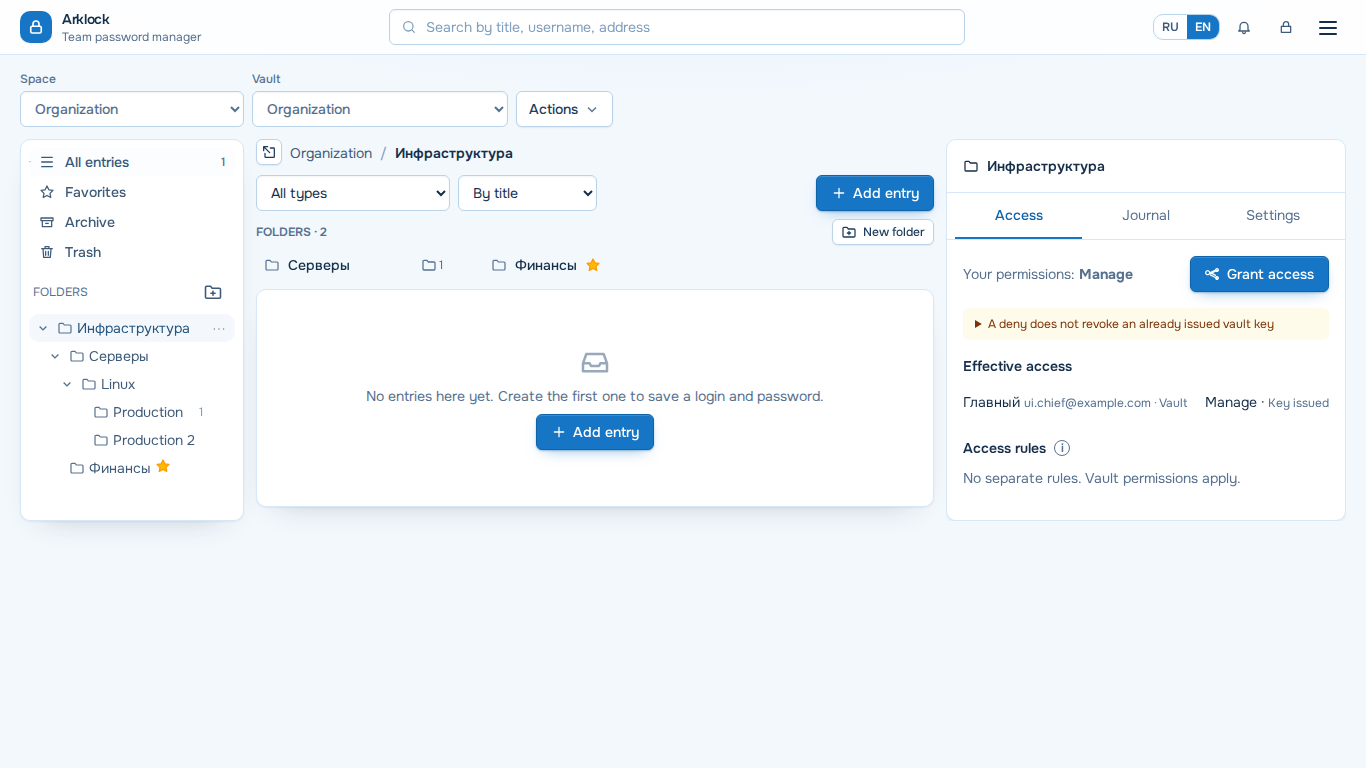
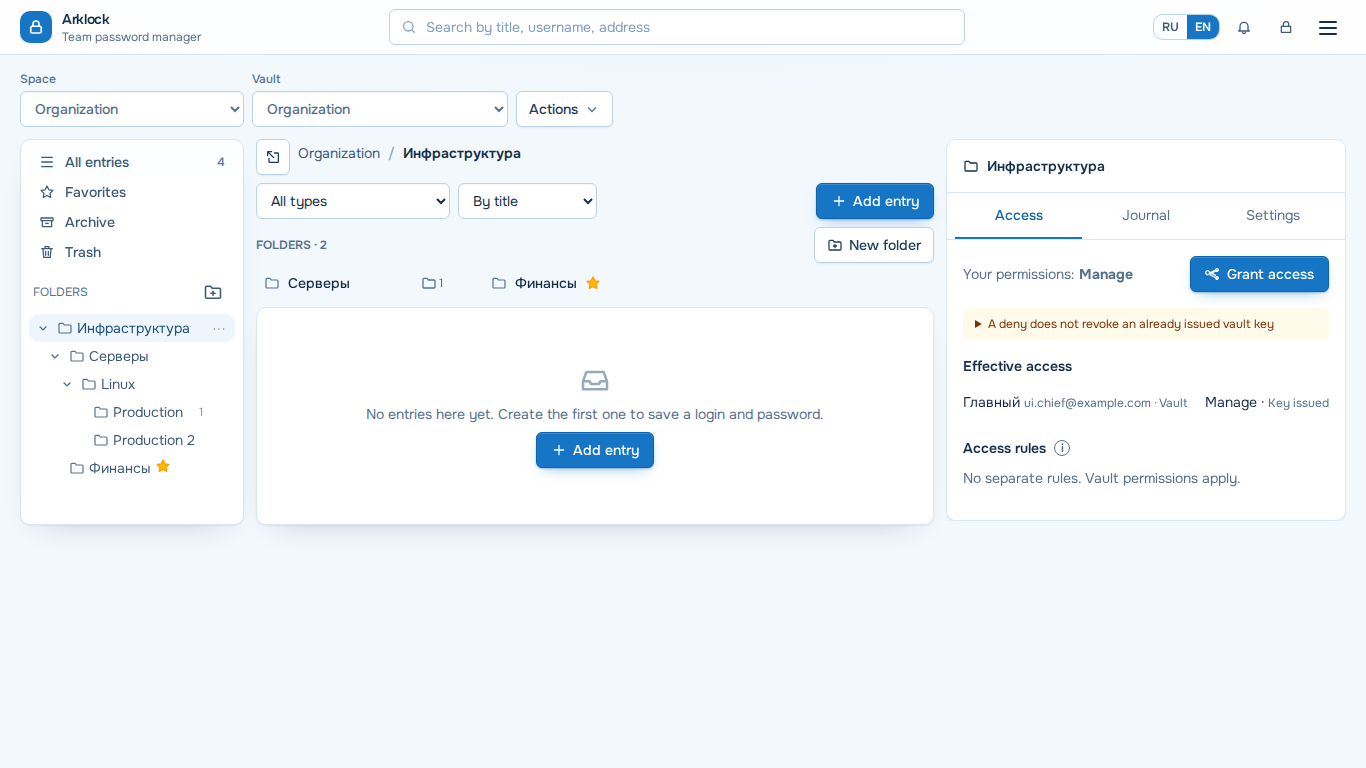
1.81.0: раздел «Папки» свёрнут до трёх строк, кнопки единой высоты
CI нашёл две регрессии первой версии проводника: список записей уходил за нижний край
экрана при масштабе 125 % в сейфе с 12 папками, а кнопка «Создать папку» была ниже
единой высоты управляющих элементов. Раздел свёрнут до трёх строк с кнопкой
«Показать все»; сценарий ui воспроизводит оба случая.

diff --git a/apps/web/src/components/FolderGrid.vue b/apps/web/src/components/FolderGrid.vue
@@ -1,5 +1,5 @@
 <script setup lang="ts">
-import { computed, ref, watch } from 'vue';
+import { ref, watch } from 'vue';
 import { useI18n } from 'vue-i18n';
 import type { BranchItem } from '../services/model';
 import Icon from './Icon.vue';
@@ -28,13 +28,13 @@ const emit = defineEmits<{
   drop: [id: string];
 }>();
 const { t } = useI18n();
-const PAGE = 12;
+/** Свёрнутый раздел занимает три строки: список записей остаётся на экране ноутбука при любом числе папок. */
+const COMPACT_FROM = 4;
 const all = ref(false);
 watch(
   () => props.where,
   () => (all.value = false),
 );
-const visible = computed(() => (all.value ? props.folders : props.folders.slice(0, PAGE)));
 </script>
 
 <template>
@@ -50,7 +50,7 @@ const visible = computed(() => (all.value ? props.folders : props.folders.slice(
       <button
         v-if="canCreate"
         type="button"
-        class="btn !min-h-0 !px-2 !py-1 text-xs"
+        class="btn"
         :title="createLabel"
         data-testid="btn-create-folder"
         @click="emit('create')"
@@ -64,10 +64,11 @@ const visible = computed(() => (all.value ? props.folders : props.folders.slice(
     <ul
       v-else
       class="grid grid-cols-[repeat(auto-fill,minmax(13rem,1fr))] gap-x-1 gap-y-0.5"
+      :class="all || folders.length < COMPACT_FROM ? '' : 'max-h-[6.5rem] overflow-y-auto'"
       data-testid="folder-tiles"
     >
       <li
-        v-for="b in visible"
+        v-for="b in folders"
         :key="b.id"
         class="group relative flex items-center rounded-md hover:bg-slate-100 dark:hover:bg-slate-800"
         data-testid="folder-tile"
@@ -125,7 +126,7 @@ const visible = computed(() => (all.value ? props.folders : props.folders.slice(
       </li>
     </ul>
     <button
-      v-if="folders.length > PAGE"
+      v-if="folders.length >= COMPACT_FROM"
       type="button"
       class="mt-1 px-1 text-xs font-medium text-brand-600 hover:underline dark:text-brand-400"
       data-testid="folders-toggle"

diff --git a/e2e/unified-ui.spec.ts b/e2e/unified-ui.spec.ts
@@ -673,6 +673,27 @@ test('проводник: без горизонтальной прокрутки
     await expect(chief.getByTestId('folder-tile').first()).toBeVisible();
     await chief.screenshot({ path: `docs/screenshots/${name}.png` });
   }
+  // много папок в одном месте: список записей всё равно виден на ноутбуке при масштабе 100, 125 и 150 %
+  for (let i = 1; i <= 10; i++) await createFolderHere(chief, `Раздел ${i}`);
+  await chief.getByTestId('add-entry').click();
+  await chief.getByTestId('f-title').fill('Запись корня раздела');
+  await chief.getByTestId('f-save').click();
+  await expect(chief.getByTestId('view-title')).toHaveText('Запись корня раздела');
+  for (const [w, h] of [
+    [1366, 768],
+    [1093, 614],
+    [911, 512],
+  ] as const) {
+    await chief.setViewportSize({ width: w, height: h });
+    await chief.waitForTimeout(300);
+    const m = await chief.evaluate(() => {
+      const r = document.querySelector('[data-testid="entry-row"]')!.getBoundingClientRect();
+      return { top: r.top, bottom: r.bottom, h: innerHeight };
+    });
+    expect(m.top, `${w}×${h}`).toBeGreaterThanOrEqual(0);
+    expect(m.bottom, `${w}×${h}`).toBeLessThanOrEqual(m.h);
+  }
+  await chief.setViewportSize({ width: 1366, height: 768 });
   await openTile(chief, 'Серверы');
   await openTile(chief, 'Linux');
   await openTile(chief, 'Production');

diff --git a/apps/web/src/components/FolderCrumbs.vue b/apps/web/src/components/FolderCrumbs.vue
@@ -28,7 +28,7 @@ const parent = computed(() => props.trail[props.trail.length - 2]?.id ?? null);
     <button
       v-if="trail.length"
       type="button"
-      class="btn !min-h-0 shrink-0 !p-1"
+      class="btn shrink-0 !px-2"
       :title="t('ws.upLevel')"
       :aria-label="t('ws.upLevel')"
       data-testid="crumb-up"

diff --git a/docs/UX_FOLDER_EXPLORER_AUDIT.md b/docs/UX_FOLDER_EXPLORER_AUDIT.md
@@ -23,7 +23,7 @@
 
 ## Найденные неудобства и что с ними сделано
 
-- Раздел папок без записей занимал бы много места на ноутбуке: строки компактные (одна строка высотой около 32 пикселей, колонки подстраиваются под ширину), больше 12 папок сворачиваются под «Показать все (N)».
+- Раздел папок без записей занимал бы много места на ноутбуке: строки компактные (одна строка высотой около 32 пикселей, колонки подстраиваются под ширину); при четырёх и более папках раздел занимает не больше трёх строк с кнопкой «Показать все (N)»; кнопки имеют единую высоту 36 пикселей, как во всём интерфейсе. Первая версия раздела была выше и в сейфе с 12 папками выталкивала список записей за нижний край экрана при масштабе 125 % — это поймал браузерный набор в CI, исправлено и проверено на 1093×614 и 911×512.
 - Поиск внутри папки раньше искал во вложенных папках, а список без поиска тоже показывал все вложенные записи, из-за чего родительская папка выглядела «набитой». Теперь без поиска и фильтров показываются записи самой папки, а поиск и фильтры ищут вглубь, и папки в центре в этот момент скрыты. Режимы просмотра папки, поиска, избранного, архива и корзины не смешиваются.
 - «Избранное», «Архив» и «Корзина» раньше оставляли внутри выбранную папку, которая оживала при возврате. Теперь переход в них сбрасывает папку: состояние навигации одно.
 - Удаление папки, которая сейчас открыта, возвращает в родительскую, а не на корень.

diff --git a/HISTORY.md b/HISTORY.md
@@ -979,5 +979,6 @@
 - Права: центр строится из того же дерева, что и левая панель; сервер отдаёт только доступные папки. Новый тест `explorer-visibility.test.ts`: доступ к вложенной папке не открывает названия и записи уровней выше, прямые обращения к скрытому — «не найдено», читатель не создаёт папку.
 - Проверки: `explorer.test.ts` (построение и путь, скрытый родитель, цикл, 600 папок), сценарии `ui` (структура из четырёх уровней, запись, путь и «…», F5, «Назад», переименование, перемещение, избранное, удаление и восстановление, поиск, чужая ссылка; ноутбучные ширины, телефон, десять тем).
 - Решения: `branchSel` остаётся единым состоянием навигации, адрес и дерево его отражают; тестовые идентификаторы центра отделены от идентификаторов дерева (`tile-*`), чтобы не ломать существующие сценарии.
+- Исправлено после CI: раздел папок был слишком высок (список записей уходил за край при масштабе 125 %), а кнопка «Создать папку» ниже единой высоты 36 px; раздел свёрнут до трёх строк, сценарий `ui` воспроизводит 12 папок на 1366×768, 1093×614 и 911×512.
 - Не сделано: перетаскивание папок мышью; виртуализация списка записей.
 

diff --git a/CHANGELOG.md b/CHANGELOG.md
@@ -17,7 +17,7 @@
 ### Улучшения
 
 - В папке без поиска и фильтров показываются записи самой папки (как в файловом проводнике), а не всех вложенных; поиск и фильтры по-прежнему ищут и во вложенных папках, и папки в этот момент скрыты. «Избранное», «Архив» и «Корзина» — отдельные режимы, не просмотр папки.
-- Длинный список папок показывает первые 12 с кнопкой «Показать все».
+- Раздел «Папок» в свёрнутом виде занимает не больше трёх строк (прокручивается внутри), при четырёх и более папках есть кнопка «Показать все»: список записей остаётся на экране ноутбука, в том числе при масштабе 125 и 150 %.
 
 ### Известные ограничения
 
